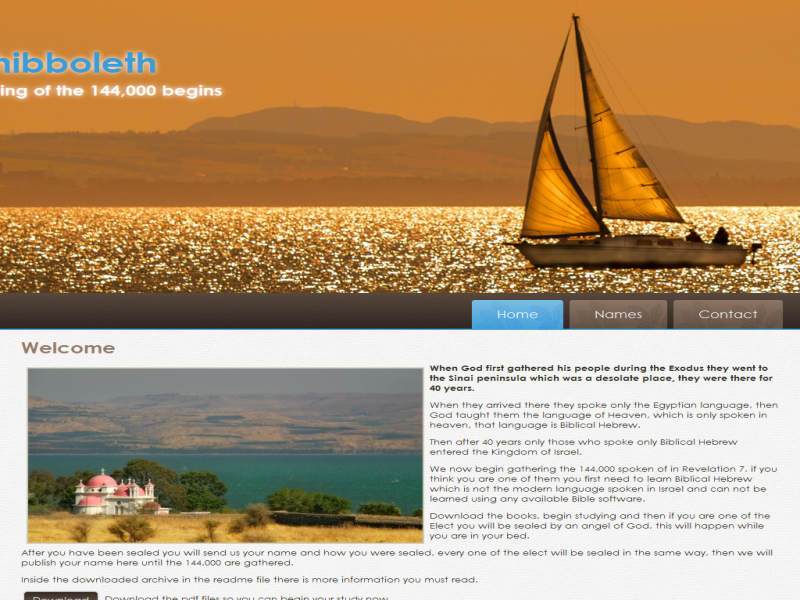
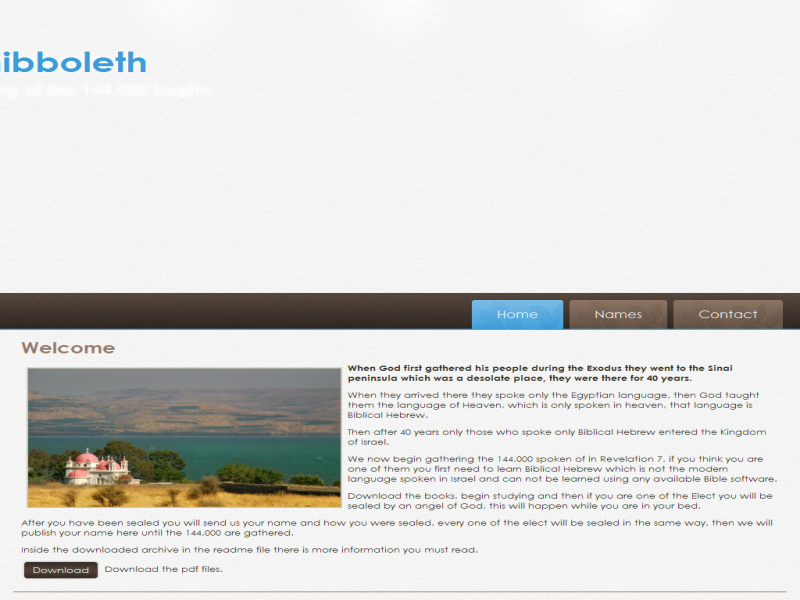
5

diff --git a/index.html b/index.html
@@ -57,8 +57,8 @@
     <div class="art-content-layout-row">
     <div class="art-layout-cell layout-item-1" style="width: 100%" >
         <h3>Welcome</h3>
-        <p><img width="505" height="297" alt="" src="images/Untitled.jpg" style="float: left; border-top-style: solid; border-right-style: solid; border-bottom-style: solid; border-left-style: solid; border-top-color: rgb(202, 199, 180); border-right-color: rgb(202, 199, 180); border-bottom-color: rgb(202, 199, 180); border-left-color: rgb(202, 199, 180); border-top-width: 2px; border-right-width: 2px; border-bottom-width: 2px; border-left-width: 2px;" class=""><span style="font-weight: bold;">When God first gathered his people during the Exodus they went to the Sinai peninsula which was a desolate place, they were there for 40 years.</span></p>
-        <p>When they arrived there they spoke only the Egyptian language, then God taught them the language of Heaven, which is only spoken in heaven, that language is Biblical Hebrew.</p><p>Then after 40 years only those who spoke only Biblical Hebrew entered the Kingdom of Israel.</p><p>We now begin gathering the 144,000 spoken of in Revelation 7, if you think you are one of them you first need to learn Biblical Hebrew which is not the modern language spoken in Israel and can not be learned using any available Bible software.</p><p>Download the books, begin studying and then if you are one of the Elect you will be sealed by an angel of God, this will happen while you are in your bed.</p><p>After you have been sealed you will send us your name and how you were sealed, every one of the elect will be sealed in the same way, then we will publish your name here until the 144,000 are gathered.</p><p>Inside the downloaded archive in the readme file there is more information you must read.</p><p>&nbsp;<a href="https://github.com/shibboleth2015/shibboleth/releases/download/1/Books.zip" class="art-button">Download</a>&nbsp;Download the pdf files so you can begin your study now.</p>
+        <p><img width="400" height="236" alt="" src="images/Untitled.jpg" style="float: left; border-top-style: solid; border-right-style: solid; border-bottom-style: solid; border-left-style: solid; border-top-color: rgb(202, 199, 180); border-right-color: rgb(202, 199, 180); border-bottom-color: rgb(202, 199, 180); border-left-color: rgb(202, 199, 180); border-top-width: 2px; border-right-width: 2px; border-bottom-width: 2px; border-left-width: 2px;" class=""><span style="font-weight: bold;">When God first gathered his people during the Exodus they went to the Sinai peninsula which was a desolate place, they were there for 40 years.</span></p>
+        <p>When they arrived there they spoke only the Egyptian language, then God taught them the language of Heaven, which is only spoken in heaven, that language is Biblical Hebrew.</p><p>Then after 40 years only those who spoke only Biblical Hebrew entered the Kingdom of Israel.</p><p>We now begin gathering the 144,000 spoken of in Revelation 7, if you think you are one of them you first need to learn Biblical Hebrew which is not the modern language spoken in Israel and can not be learned using any available Bible software.</p><p>Download the books, begin studying and then if you are one of the Elect you will be sealed by an angel of God, this will happen while you are in your bed.</p><p>After you have been sealed you will send us your name and how you were sealed, every one of the elect will be sealed in the same way, then we will publish your name here until the 144,000 are gathered.</p><p>Inside the downloaded archive in the readme file there is more information you must read.</p><p>&nbsp;<a href="https://github.com/shibboleth2015/shibboleth/releases/download/1/Books.zip" class="art-button">Download</a>&nbsp;Download the pdf files.</p>
     </div>
     </div>
 </div>
